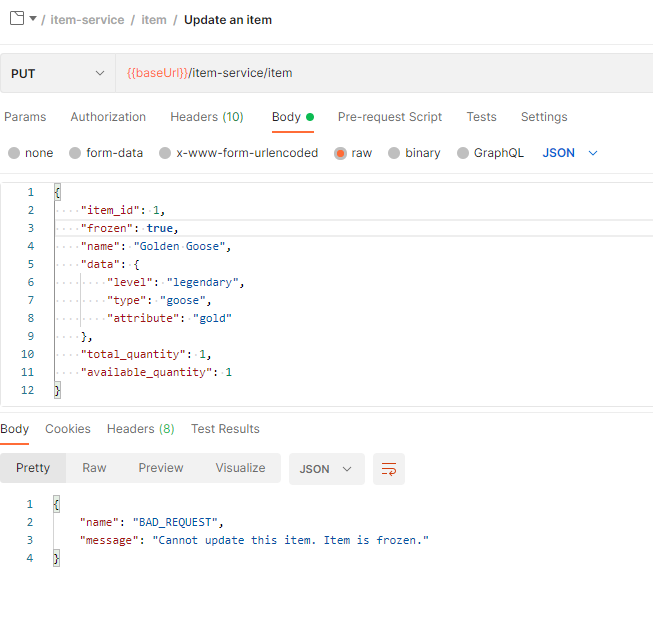
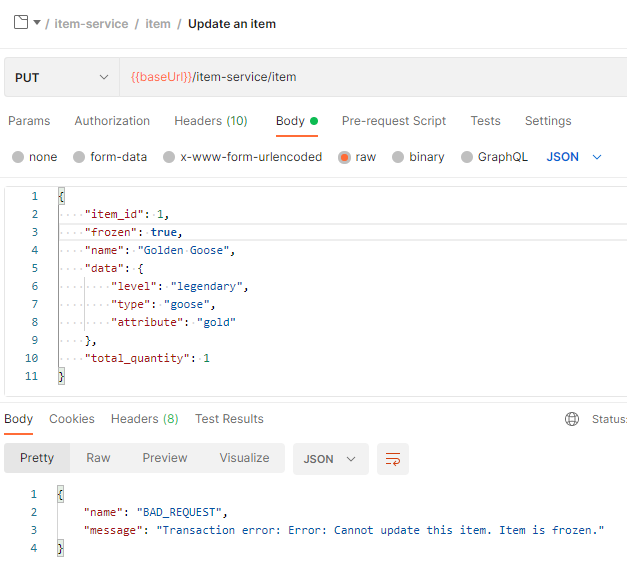
BSP-236: Automate Available Quantity
- Update documentation now that available_quantity is automated

diff --git a/docs/tokenization/item.md b/docs/tokenization/item.md
@@ -12,22 +12,22 @@ An item is created and owned by a studio and is composed of a set of characteris
 
 When using the APIs to create/update an item, you will have to specify those fields.
 
-| Field                | Description                                                                       | Data type                                                               | Notes                                                                                                                                      |
-| -------------------- | --------------------------------------------------------------------------------- | ----------------------------------------------------------------------- | ------------------------------------------------------------------------------------------------------------------------------------------ |
-| `frozen`             | Indicates if an item can still be modified or not                                 | `boolean`                                                               | Once set to true, an item can't be modified. This is enforced by the smart contract itself                                                 |
-| `name`               | Name of the item. This is free text and doesn't need to be unique                 | `string`                                                                | there's a max length of 100 chars                                                                                                          |
-| `data`               | An object containing the items characeteristics                                   | JSON Object, each value must be a `string`. E.g: `{ "color": "green" }` | Values can only be strings, no nesting allowed                                                                                             |
-| `total_quantity`     | The total number of items to be assigned                                          | `number`                                                                | Should be greater than `0`. There's no upper bound, but we believe that if an item is "too" available it may not make sense to tokenize it |
-| `available_quantity` | This number indicates how many items are left to be sold when the item is created | `number`                                                                | should be less than `total_quantity`. This field may become fully automated in a future release                                            |
+| Field            | Description                                                       | Data type                                                               | Notes                                                                                                                                      |
+| ---------------- | ----------------------------------------------------------------- | ----------------------------------------------------------------------- | ------------------------------------------------------------------------------------------------------------------------------------------ |
+| `frozen`         | Indicates if an item can still be modified or not                 | `boolean`                                                               | Once set to true, an item can't be modified. This is enforced by the smart contract itself                                                 |
+| `name`           | Name of the item. This is free text and doesn't need to be unique | `string`                                                                | there's a max length of 100 chars                                                                                                          |
+| `data`           | An object containing the items characeteristics                   | JSON Object, each value must be a `string`. E.g: `{ "color": "green" }` | Values can only be strings, no nesting allowed                                                                                             |
+| `total_quantity` | The total number of items to be assigned                          | `number`                                                                | Should be greater than `0`. There's no upper bound, but we believe that if an item is "too" available it may not make sense to tokenize it |
 
 <u>Automatically assigned fields:</u>
 
 When creating items, some fields are automatically added by the platform.
 
-| Field       | Description                  | Data type | Notes                                                                                                                                                              |
-| ----------- | ---------------------------- | --------- | ------------------------------------------------------------------------------------------------------------------------------------------------------------------ |
-| `item_id`   | The item's id                | `number`  | The value in this field is automatically assigned to the item and may never be changed. It's used to locate the item in the blockchain                             |
-| `studio_id` | The studio unique identifier | `string`  | The value in this field comes from our directory of users. This allows us to know who owns the items and prevents studios from accessing items that they don't own |
+| Field                | Description                                                                       | Data type | Notes                                                                                                                                                              |
+| -------------------- | --------------------------------------------------------------------------------- | --------- | ------------------------------------------------------------------------------------------------------------------------------------------------------------------ |
+| `item_id`            | The item's id                                                                     | `number`  | The value in this field is automatically assigned to the item and may never be changed. It's used to locate the item in the blockchain                             |
+| `studio_id`          | The studio unique identifier                                                      | `string`  | The value in this field comes from our directory of users. This allows us to know who owns the items and prevents studios from accessing items that they don't own |
+| `available_quantity` | This number indicates how many items are left to be sold when the item is created | `number`  | Is initially set to `total_quantity` and then decreases by `1` for each instance assgined.                                                                         |
 
 <u>Tokenization related fields:</u>
 

diff --git a/docs/tutorial/create-an-item.md b/docs/tutorial/create-an-item.md
@@ -18,17 +18,28 @@ the fields to these values in the Body tab.
         "type": "goose",
         "attribute": "gold"
     },
-    "total_quantity": 10,
-    "available_quantity": 10
+    "total_quantity": 10
 }
 ```
 
-And hit "send". This will return the item's new id:
+And hit "send". This will return the new item, including the automatically populated ones:
 
 ```json
 {
-    // item id is a number. It starts with 1 and increased by 1, so an item id looks like 1, 2, 1000, 1337...
-    "item_id": 1
+    "item_id": 1, // item id is a number. It starts with 1 and increases by 1
+    "studio_id": "studio_id", // The studio id, coming from the Auth Token
+    "name": "Golden Goose",
+    "total_quantity": 10,
+    "available_quantity": 10, // Automatically set to `total_quantity`
+    "frozen": false,
+    "data": {
+        "type": "goose",
+        "level": "rare",
+        "attribute": "gold"
+    },
+    "fulltext": "goose rare gold Golden Goose",
+    "tezos_contract_address": null, // The tokenization information, will be set when the item is tokenized
+    "tezos_block": null
 }
 ```
 
@@ -46,16 +57,17 @@ this should return the original item with some additional information:
     "item_id": 1,
     "studio_id": "studio_id",
     "name": "Golden Goose",
-    "available_quantity": 10,
     "total_quantity": 10,
+    "available_quantity": 10,
     "frozen": false,
     "data": {
         "type": "goose",
         "level": "rare",
         "attribute": "gold"
     },
-    "tezos_block": "BMMJJGZuKCwoF9BytcMDkurjdtRkWnwSTVKotNCFpen3oqCFFts",
-    "tezos_contract_address": "KT1LoG46ak7rDa2yE7fT4nrF432HMQVUi17V"
+    "fulltext": "goose rare gold Golden Goose",
+    "tezos_contract_address": "KT1LeRvbGcDYz4tczEgUL7xNs6rxznRCQFdP",
+    "tezos_block": "BLSHjGTKQfkBEMDgBAve9oxHyXkrFuAzo36EfSjVdkPbyRujFfi"
 }
 ```
 
@@ -85,8 +97,7 @@ Locate the "Update an item" request and update the required values, then hit Sen
         "type": "goose",
         "attribute": "gold"
     },
-    "total_quantity": 1,
-    "available_quantity": 1
+    "total_quantity": 1
 }
 ```
 
